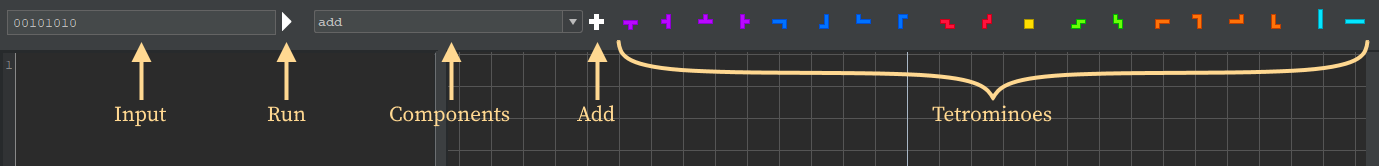
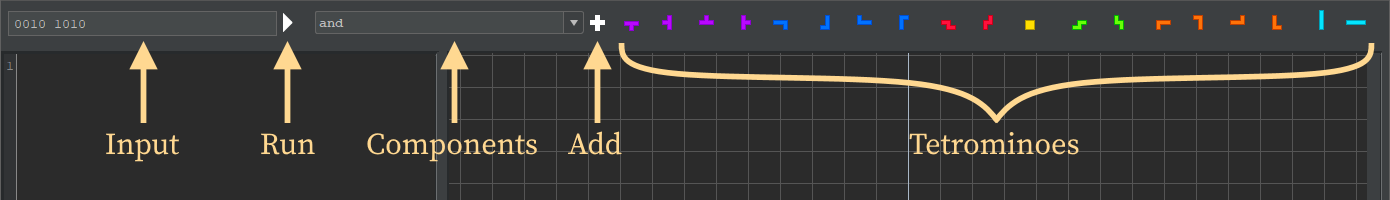
tse

Changed region(s): [[0.0, 0.0, 1.0, 1.0], [0.0624, 0.6627, 0.1559, 0.8133], [0.0, 0.3012, 0.0312, 0.4217]]

diff --git a/web/index.html b/web/index.html
@@ -4020,22 +4020,28 @@ N = 16 * tetrominoType + 4 * tetrominoRotation + blockIndex;  // offset within p
 
 <h2 id="tetrominoscript-editor">TetrominoScript Editor</h2>
 
-<p><span class="nowrap">TetrominoScript Editor (TSE)</span> is a tool for visually designing digital components and combinational logic circuits. It automatically generates a <span class="nowrap">TS program</span> as the user drags and drops tetrominoes and previously defined components into place. If the user edits the <span class="nowrap">TS program</span>, TSE provides immediate feedback of the changes.</p>
+<p><span class="nowrap">TetrominoScript Editor (TSE)</span> is a tool for designing digital components and combinational logic circuits visually. It automatically generates a <span class="nowrap">TS program</span> as the user clicks and drops tetrominoes and components into place. If the user edits the <span class="nowrap">TS program</span>, TSE provides immediate feedback of the changes.</p>
 
-<p>TSE is also a testing tool. It reveals how the circuit responds to user entered inputs. Plus, it accepts a snippet of <span class="nowrap">JavaScript (JS)</span> that specifies the expected outputs. Upon request, it compares the JS values against the actual outputs for all possible inputs.</p>
+<p>TSE is also a testing tool. It reveals how a circuit responds to user entered inputs. Plus, it accepts a snippet of <span class="nowrap">JavaScript (JS)</span> that specifies expected outputs. Upon request, it compares the JS values against actual outputs for all possible inputs.</p>
+
+<h3 id="tse-run">Run</h3>
+
+<p>...</p>
+
+<h3 id="tse-user-interface">User Interface</h3>
 
 <p>As shown below, TSE is a single-window application segmented into regions. The largest region is the playfield, the grid where the user assembles circuits. On the left, from top-to-bottom, are the <span class="nowrap">TS program</span>, the <span class="nowrap">JS snippet</span>, and the output messages region.</p>
 
 <p><img id="tse-swap.png" class="centered" src="tse-swap.png" /></p>
 
-<p>The toolbar provides test and insert controls:</p>
+<p>The toolbar provides controls for <span class="nowrap">TS program</span> execution and element selection:</p>
 
 <ul>
-  <li>Input field - Holds an entered binary value.</li>
-  <li>Run button - Executes the <span class="nowrap">TS program</span> with the entered value. <span class="menu">Run > Run</span> and <span class="keys">F6</span> do the same.</li>
+  <li>Input field - Contains a user entered binary string that specifies the input node states.</li>
+  <li>Run button - Executes the <span class="nowrap">TS program</span> with the input field value. <span class="menu">Run > Run</span> and <span class="keys">F6</span> do the same.</li>
   <li>Components combo box - Lists all previously defined components.</li>
-  <li>Add button - Selects a listed component. Clicking on a grid cell will insert it.</li>
-  <li>Tetrominoes buttons - Selects a tetromino in one of the nineteen possible orientations. Clicking on a grid cell will insert it.</li>
+  <li>Add button - Selects a listed component. Clicking on a grid cell inserts it into the playfield.</li>
+  <li>Tetrominoes buttons - Selects a tetromino in one of the nineteen possible orientations. Clicking on a grid cell inserts it.</li>
 </ul>
 
 <p><img id="tse-toolbar.png" class="centered" src="tse-toolbar.png" /></p>
@@ -4052,23 +4058,27 @@ N = 16 * tetrominoType + 4 * tetrominoRotation + blockIndex;  // offset within p
 
 <p><img id="tse-status-bar.png" class="centered" src="tse-status-bar.png" /></p>
 
-<p>To demonstrate the features of TSE, the following steps explain how to construct a <span class="nowrap">NAND gate</span>.</p>  
+<h3 id="tse-nand-tutorial">NAND Tutorial</h3>
+
+<p>This tutorial explains how to construct a <span class="nowrap">NAND gate</span> in TSE.</p>  
 
 <p>Select <span class="menu">File > New...</span> or press <span class="keys">Ctrl+N</span>:</p>
 
 <p><img id="tse-file-new.png" class="centered" src="tse-file-new.png" /></p>
 
-<p>In the New file chooser, navigate to <span class="mono">code/ts/examples</span>, enter <span class="mono">nandExample.t</span>, and hit <span class="menu">Save</span>:</p>
+<p>In the New file chooser, navigate to <span class="mono">code/ts/examples</span>, enter File Name <span class="mono">nandExample.t</span>, and hit <span class="menu">Save</span>:</p>
 
 <p><img id="tse-new-file-chooser.png" class="centered" src="tse-new-file-chooser.png" /></p>
 
-<p>The window regions reset and the named component appears in the title bar:</p>
+<p>The window regions reset and <span class="mono">nandExample</span> appears in the title bar:</p>
 
 <p><img id="tse-new-result.png" class="centered" src="tse-new-result.png" /></p>
 
 <p>Turn the <span class="keys">scroll wheel</span> to adjust the grid cell size to 32:</p>
 
 <p><img id="tse-zoom-32.png" class="centered" src="tse-zoom-32.png" /></p>
+
+<object id="nand-schematic.svg" data="nand-schematic.svg" type="image/svg+xml" class="diagram">NAND Schematic</object>
 
 <p>Type <span class="mono nowrap">&ldquo;in a&rdquo;</span> into the <span class="nowrap">TS program</span> region:</p>
 
@@ -4092,7 +4102,7 @@ N = 16 * tetrominoType + 4 * tetrominoRotation + blockIndex;  // offset within p
 
 <p>Press the <span class="keys">Run</span> button.</p>
 
-<p>Input nodes <span class="mono">a</span> and <span class="mono">b</span> appear in the playfield with the specified values:</p>
+<p>Input nodes <span class="mono">a</span> and <span class="mono">b</span> appear in the playfield, assigned to the specified values:</p>
 
 <p><img id="tse-nodes.png" class="centered" src="tse-nodes.png" /></p>
 
